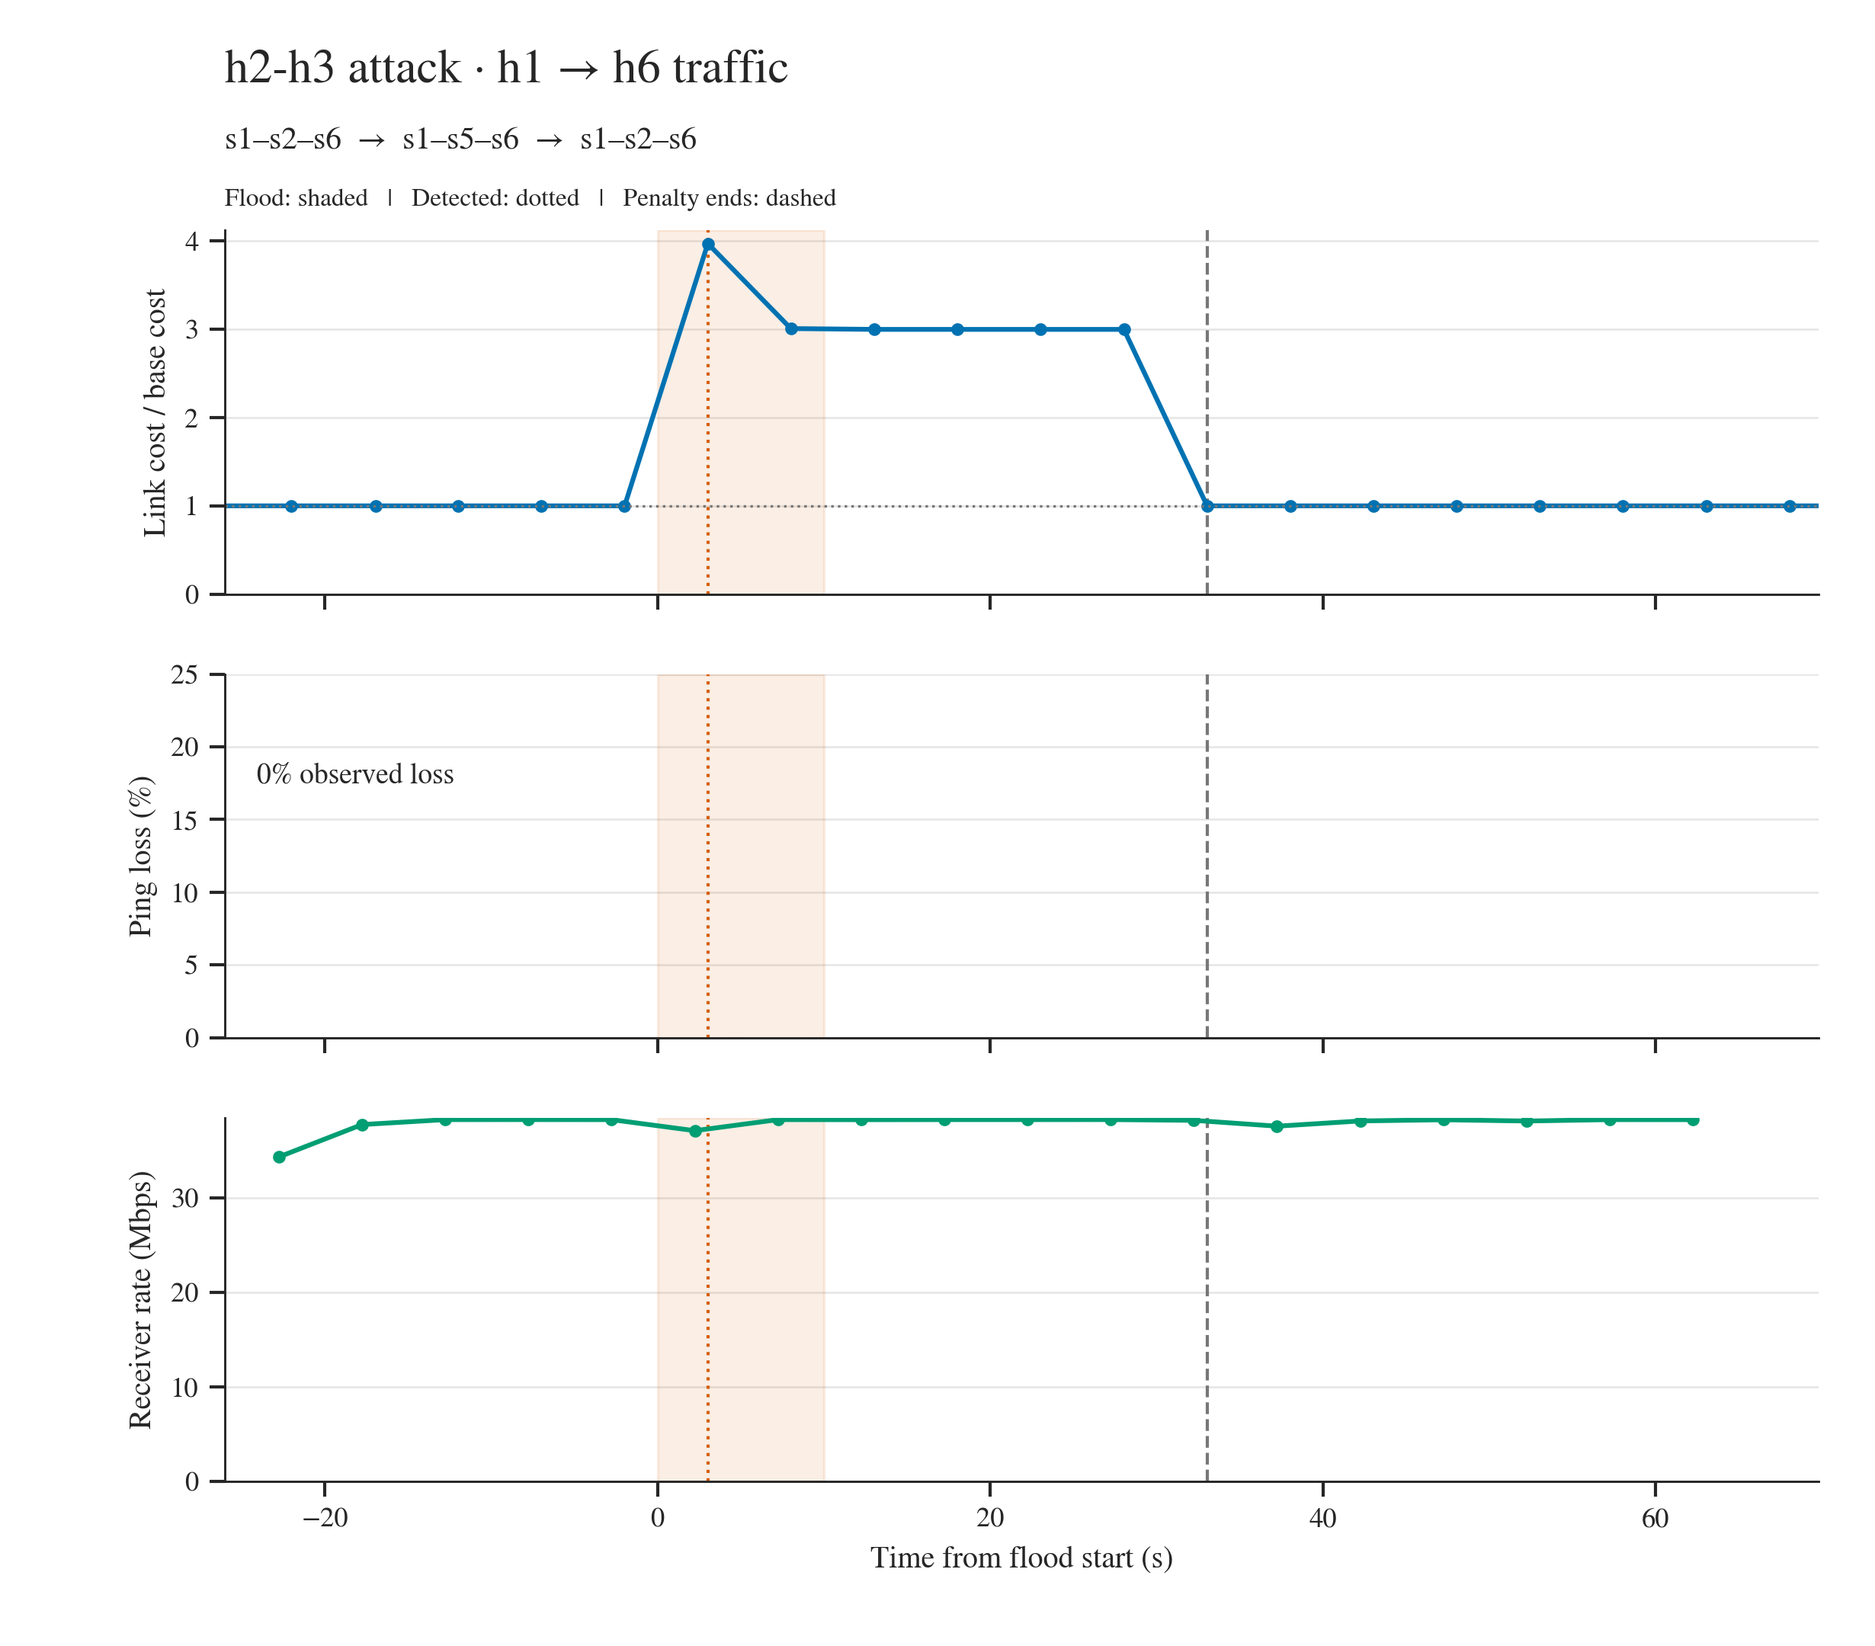
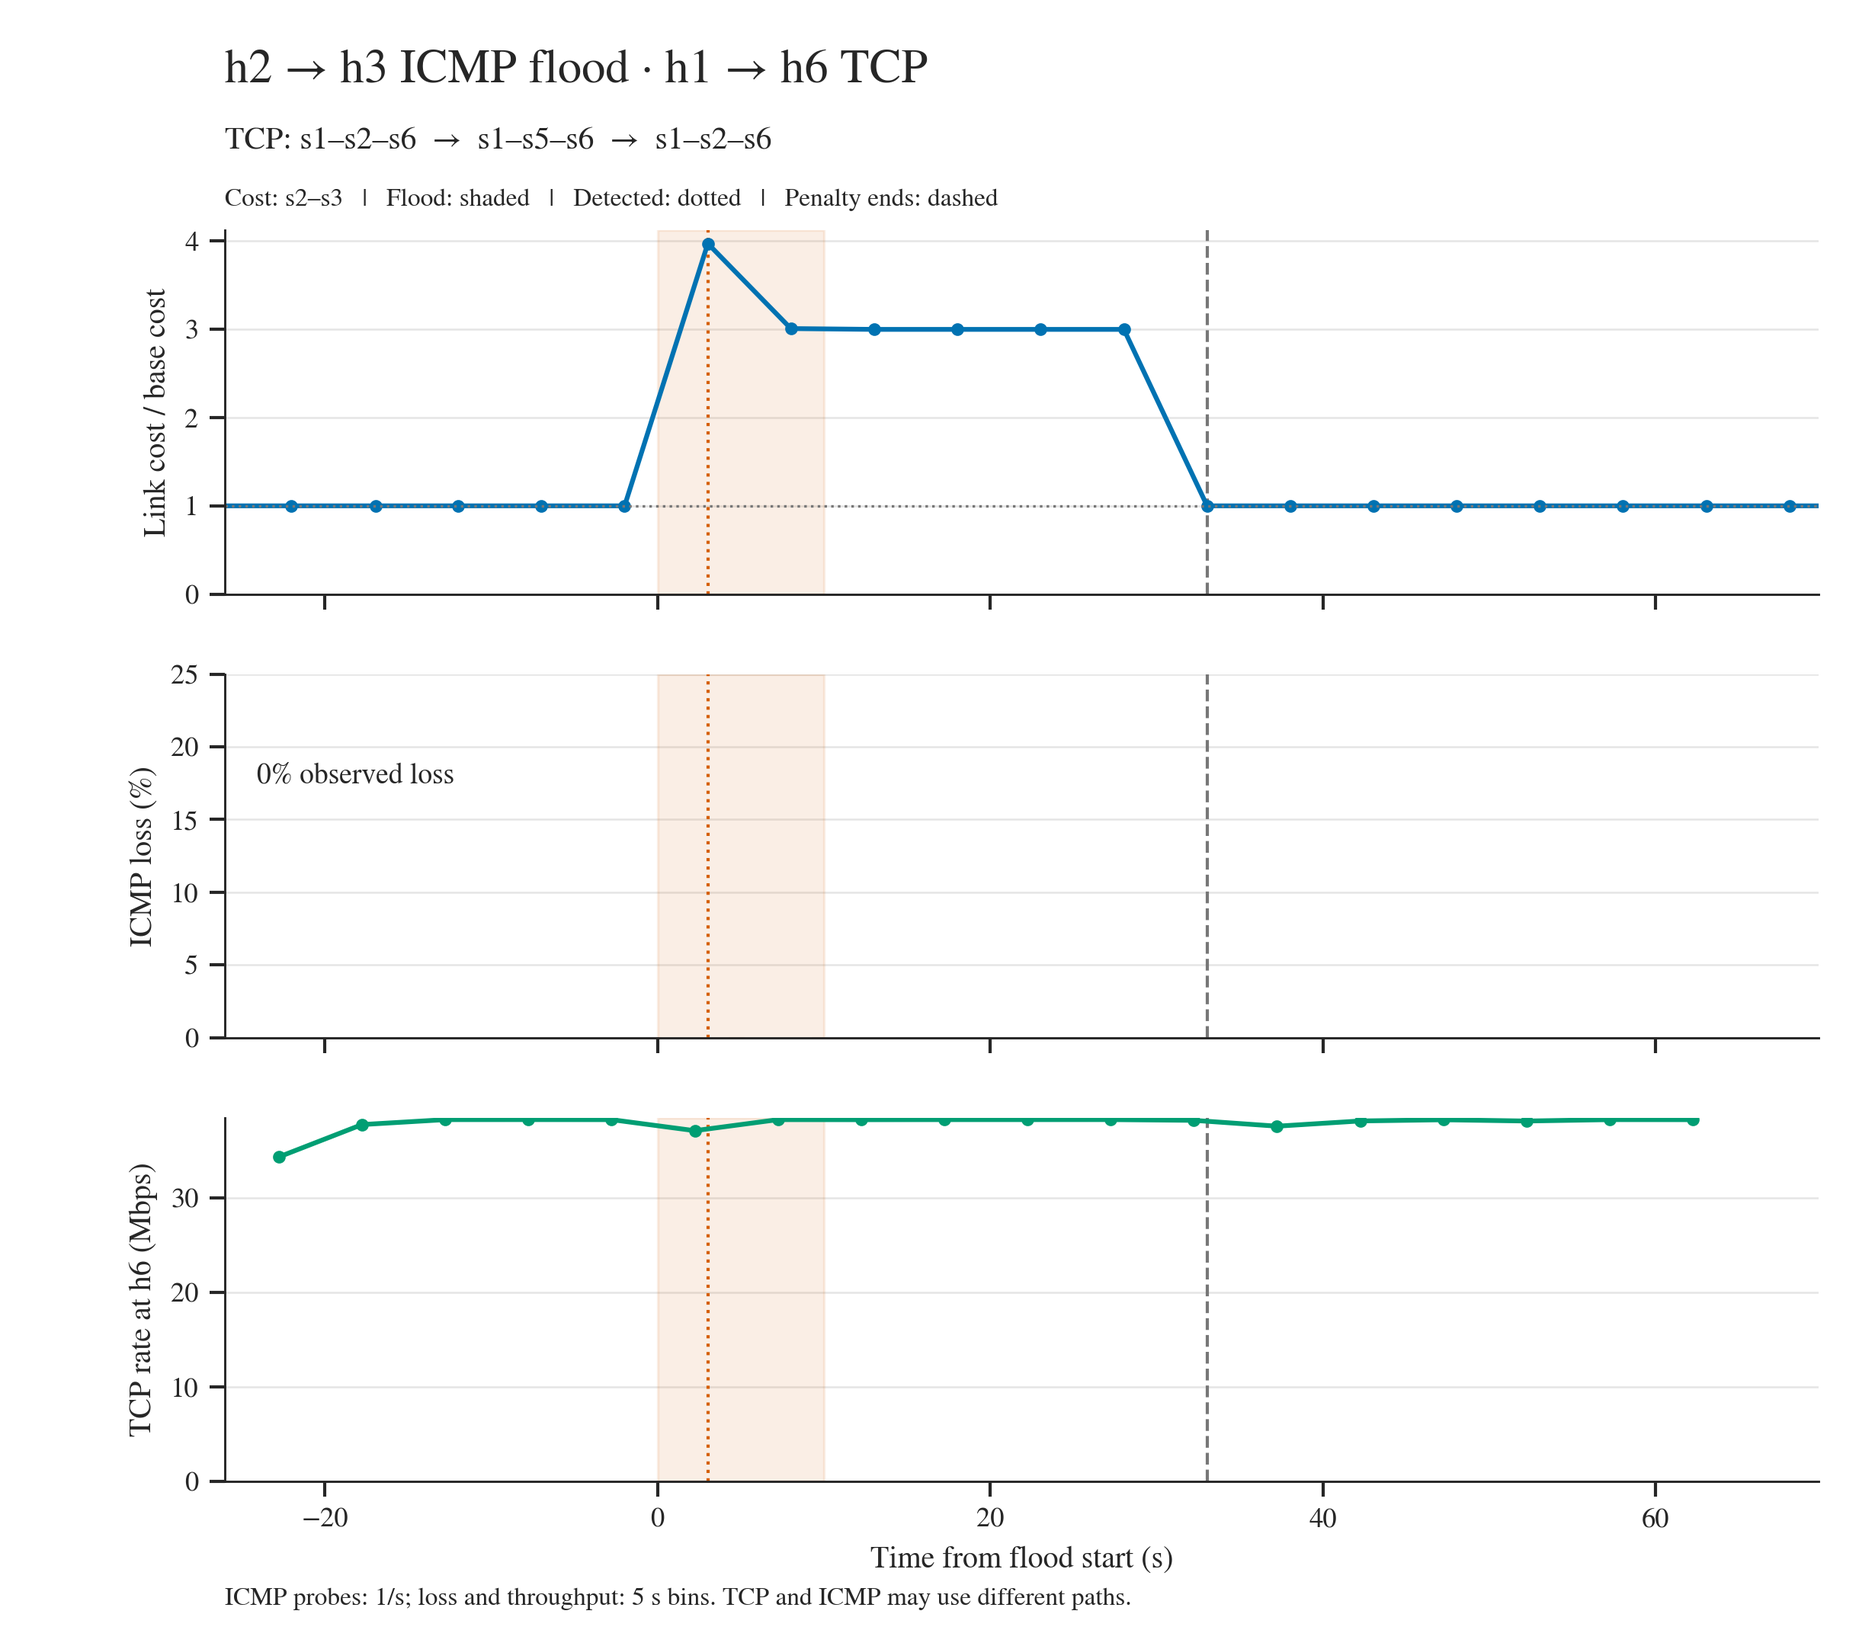
Align topology checks and document measured route costs

diff --git a/tools/plot_qn4.py b/tools/plot_qn4.py
@@ -83,12 +83,27 @@ def summarize(folder):
     report['initial_base_path_cost'] = sum(base[tuple(sorted((u,v)))] for u,v in zip(report['initial_path'],report['initial_path'][1:]))
     # Current costs can differ from the costs at which an existing flow was installed.
     report['route_cost_samples'] = []
+    comparison = None
     for observation in paths:
         latest = {(row['src'], row['dst']): row['dynamic_cost'] for row in samples if row['time'] <= observation['time']}
         edges = [tuple(sorted((u,v))) for u,v in zip(observation['path'],observation['path'][1:])]
         if edges and all(edge in latest for edge in edges):
             report['route_cost_samples'].append({'time': observation['time'], 'path': observation['path'],
                                                   'cost': sum(latest[edge] for edge in edges)})
+            if comparison is None and observation['time'] >= start and observation['path'] != report['path_before']:
+                sampled = max(row['time'] for row in samples if row['time'] <= observation['time'])
+                old_edges = [tuple(sorted((u,v))) for u,v in zip(report['path_before'],report['path_before'][1:])]
+                comparison = {'case': report['case'], 'observed_s': observation['time']-start,
+                              'sample_age_s': observation['time']-sampled,
+                              'old_path': report['path_before'], 'old_cost': sum(latest[edge] for edge in old_edges),
+                              'new_path': observation['path'], 'new_cost': sum(latest[edge] for edge in edges)}
+    report['route_comparison'] = comparison
+    if comparison is not None:
+        with (folder / 'route_costs.csv').open('w', newline='') as output:
+            writer = csv.DictWriter(output, fieldnames=list(comparison), lineterminator='\n')
+            writer.writeheader()
+            writer.writerow({key: '-'.join('s%d'%i for i in value) if key.endswith('_path') else value
+                             for key, value in comparison.items()})
     recovered = any(path == report['path_before'] for path in report['phases']['after']['paths'])
     report['checks'] = {
         'all_hosts_reachable': report['pingall_loss_percent'] == 0,
@@ -106,6 +121,8 @@ def summarize(folder):
         'tcp_finished': report['client_exit_code'] == 0}
     if edge in [tuple(sorted(pair)) for pair in zip(report['path_before'],report['path_before'][1:])]:
         report['checks']['affected_route_changed'] = report['rerouted']
+    if report['rerouted']:
+        report['checks']['lower_cost_in_latest_sample'] = comparison is not None and comparison['new_cost'] < comparison['old_cost']
     report['passed'] = all(report['checks'].values())
     (folder / 'result.json').write_text(json.dumps(report, indent=2) + '\n')
     return report, link, metrics
@@ -121,13 +138,16 @@ def plot(folder, report, link, metrics):
     end = report['penalty_end']-start
     fig, axes = plt.subplots(3, 1, figsize=(8.2, 7.2), sharex=True)
     fig.subplots_adjust(left=.12, right=.97, top=.86, bottom=.1, hspace=.22)
-    fig.suptitle('%s attack · h1 → h6 traffic' % report['case'], x=.12, y=.97, ha='left', fontsize=15)
+    source, destination = report['case'].split('-')
+    fig.suptitle('%s → %s ICMP flood · h1 → h6 TCP' % (source,destination), x=.12, y=.97, ha='left', fontsize=15)
     before = '–'.join('s%d'%i for i in report['path_before'])
     alternatives = [path for path in report['phases']['during']['paths'] if path != report['path_before']]
     during = ' / '.join('–'.join('s%d'%i for i in path) for path in alternatives) or before
     after = ' / '.join('–'.join('s%d'%i for i in path) for path in report['phases']['after']['paths'])
-    fig.text(.12, .91, '%s  →  %s  →  %s' % (before,during,after), fontsize=10)
-    fig.text(.12, .875, 'Flood: shaded   |   Detected: dotted   |   Penalty ends: dashed', fontsize=8)
+    fig.text(.12, .91, 'TCP: %s  →  %s  →  %s' % (before,during,after), fontsize=10)
+    fig.text(.12, .875, 'Cost: s%s–s%s   |   Flood: shaded   |   Detected: dotted   |   Penalty ends: dashed'
+             % (source[1:],destination[1:]), fontsize=8)
+    fig.text(.12, .025, 'ICMP probes: 1/s; loss and throughput: 5 s bins. TCP and ICMP may use different paths.', fontsize=8)
     for ax in axes:
         ax.axvspan(0, report['flood_seconds'], color=COLORS['block'], alpha=.1)
         ax.axvline(report['detection_seconds'], color=COLORS['block'], linestyle=':', linewidth=1)
@@ -141,13 +161,13 @@ def plot(folder, report, link, metrics):
     points = [row for row in metrics if row['loss_pct'] is not None]
     axes[1].bar([row['time_s'] for row in points], [row['loss_pct'] for row in points],
                 width=4.1, color=COLORS['block'])
-    axes[1].set_ylabel('Ping loss (%)')
+    axes[1].set_ylabel('ICMP loss (%)')
     axes[1].set_ylim(0, max(25, max(row['loss_pct'] for row in points)*1.2))
     if all(row['loss_pct'] == 0 for row in points):
         axes[1].text(.02, .7, '0% observed loss', transform=axes[1].transAxes, fontsize=9)
     axes[2].plot([row['time_s'] for row in metrics], [row['receiver_mbps'] for row in metrics],
                  '-o', color=COLORS['ema'], markersize=3)
-    axes[2].set_ylabel('Receiver rate (Mbps)')
+    axes[2].set_ylabel('TCP rate at h6 (Mbps)')
     axes[2].set_ylim(bottom=0)
     lowest = min(metrics, key=lambda row: row['receiver_mbps'])
     if lowest['receiver_mbps'] < .01:

diff --git a/tests/check_topology.py b/tests/check_topology.py
@@ -23,6 +23,10 @@ assert len(data['hosts']) == len(data['switches']) == 6 and len(expected) == 17
 
 # Load the actual pure functions without importing Ryu into system Python.
 code = ast.parse((ROOT / 'controller/path_controller.py').read_text())
+base_costs = next(ast.literal_eval(node.value) for node in code.body
+                  if isinstance(node, ast.Assign)
+                  and any(isinstance(target, ast.Name) and target.id == 'BASE_COSTS'
+                          for target in node.targets))
 functions = [n for n in code.body if isinstance(n, ast.FunctionDef)
              and n.name in ('shortest_path', 'spanning_tree')]
 import heapq
@@ -32,11 +36,11 @@ graph = {i: {} for i in range(1, 7)}
 for (u, v), opts in expected.items():
     if u.startswith('s') and v.startswith('s'):
         a, b = int(u[1:]), int(v[1:])
-        graph[a][b] = graph[b][a] = float(opts['delay'][:-2])
-assert scope['shortest_path'](graph, 1, 6) == ([1, 2, 6], 19)
-assert scope['shortest_path'](graph, 6, 1) == ([6, 2, 1], 19)
+        graph[a][b] = graph[b][a] = base_costs.get(tuple(sorted((a, b))), 10.0)
+assert scope['shortest_path'](graph, 1, 6) == ([1, 2, 6], 15)
+assert scope['shortest_path'](graph, 6, 1) == ([6, 2, 1], 15)
 assert scope['shortest_path']({1: {}, 2: {}}, 1, 2) == ([], float('inf'))
 tree = scope['spanning_tree'](graph)
 assert len(tree) == 5
-assert sum(graph[u][v] for u, v in tree) == 37
-print('PASS: original topology preserved; Dijkstra path cost 19; MST cost 37.')
+assert sum(graph[u][v] for u, v in tree) == 43
+print('PASS: original topology preserved; Dijkstra path cost 15; MST cost 43.')

diff --git a/README.md b/README.md
@@ -15,8 +15,8 @@ cd CEG5101_CA2
 bash scripts/setup.sh
 ```
 
-The script installs Mininet, Open vSwitch, Ryu, hping3 and the plotting
-packages. Ryu uses the project's `.venv`.
+The script installs Mininet, Open vSwitch, Ryu, hping3, iperf, tcpdump and
+the plotting packages. Ryu uses the project's `.venv`.
 
 ## Start the network
 
@@ -82,6 +82,10 @@ h2 should receive no replies after blocking; h1 should still receive replies.
 The flow table should contain a priority-5000 rule for `nw_src=10.0.0.2`
 with `actions=drop`.
 
+For the automated version, run `bash scripts/run_qn2.sh`.
+[Qn2 measurements and plots](docs/qn2.md) include the saved runs and
+the command for redrawing them.
+
 ## Qn3: dynamic link costs
 
 Qn3 runs in the same controller. Each inter-switch link uses:
@@ -91,11 +95,9 @@ cost = base_cost + 30 × utilisation + 20 × anomaly
 ```
 
 Base costs follow the supplied `resilient_controller.py`; unspecified links
-have cost 10. The physical TCLink delays are unchanged. This keeps all three
-Qn4 attack pairs on their requested links when the baseline flows start.
-Utilisation is the larger of the two
-directional TX rates divided by 40 Mbps, capped at 1. The anomaly penalty
-lasts 30 seconds; the source IP stays blocked.
+have cost 10. Routing costs are separate from the physical TCLink delays.
+Utilisation is the larger directional TX rate divided by 40 Mbps, capped
+at 1. The anomaly penalty lasts 30 seconds; the source IP stays blocked.
 
 On a fresh network, run this at `mininet>` to test the load term:
 
@@ -108,24 +110,11 @@ Open the newest `results/data/qn3-*.jsonl` file. Each row records a link's
 `utilisation`, `anomaly`, `dynamic_cost` and `normalized_cost`.
 Use the Qn2 ping/flood test to check the anomaly term.
 
-Load updates affect new flows. Existing flows keep their paths until an
-anomaly is detected, a penalty expires, or the topology changes. This avoids
-switching back and forth every statistics interval. Only flows with new
-packets contribute destinations to the anomaly-path check; idle rules left
-by `pingall` are excluded.
+Load updates affect new flows. Existing paths are recalculated when an
+anomaly is detected, a penalty expires, or the topology changes. Idle rules
+left by `pingall` are excluded from anomaly-path marking.
 
-The earlier delay-based runs below verified source blocking on all six switches, no further
-forwarding from the blocked source, and penalty recovery. The continuous
-h1→h6 ping received 70/70 replies in four runs and 69/70 in one.
-Three TCP tests (120, 60 and 60 seconds) had no periodic route resets.
-
-![Qn2 and Qn3 results](docs/images/qn3-results.png)
-
-Saved measurements: [anomaly runs](examples/qn3/anomaly_runs.csv) and
-[TCP runs](examples/qn3/load_runs.csv). The TCP repeats also included a
-5-second h4→h3 flow, which selected s4–s5–s3 under load.
-Those h5→h6 tests used s5–s3–s6. Qn4 below uses the reference base costs
-and verifies traffic on s5–s6.
+[Earlier Qn3 tests](docs/qn3.md) used delay-based costs and are kept separately.
 
 ## Qn4: rerouting and performance
 
@@ -135,62 +124,50 @@ Run all three cases:
 bash scripts/run_qn4.sh
 ```
 
-Each case starts a fresh test network. It establishes the source's ICMP
-baseline, starts a 90-second h1→h6 TCP flow, and sends a 10-second flood
-after 25 seconds. The cases are h2→h3, h2→h6 and h5→h6.
-The source path is checked against the requested link before the flood.
-The three cases take about six minutes in total.
+If you used an earlier setup, install the measurement tools once:
+`sudo apt install iperf tcpdump`.
 
-Results go to `results/qn4/<run>/<case>/`. `qn4.png` shows normalized link
-cost, ping loss and receiver throughput over time. TCP paths come from
-OpenFlow rules; ping loss comes from captured h1→h6 ICMP probes. These
-probes can use a different path from TCP. Throughput and loss use 5-second
-bins, with one ping per second.
+Each case starts a fresh network, builds the source's ping baseline, and
+runs h1→h6 TCP traffic for 90 seconds. A 10-second flood starts after
+25 seconds. The source path is checked against s2–s3, s2–s6 or s5–s6.
+The three cases take about six minutes.
 
-For each case, `result.json` records the paths, drop-rule checks and
-before/during/after measurements; `metrics.csv` contains the plotted rates
-and loss. The scripts retain the original logs, JSONL samples and ICMP capture.
-The `during` phase runs from flood start through penalty expiry.
+Results go to `results/qn4/<run>/<case>/`:
 
-The saved tests verified all three target links, source blocking and route
-recovery. Loss and temporary throughput drops are retained, including a
-5-second interval at 0.0023 Mbps in the h2→h6 run. The same TCP connection
-subsequently recovered and finished.
-Off-path attacks can also move h1's TCP flow: fresh routing decisions use
-the current load costs on its original path.
+- `qn4.png`: normalized cost of the attacked link, ICMP probe loss and TCP receiver throughput.
+- `result.json`: paths, blocking checks and before/during/after measurements.
+- `metrics.csv`: throughput and loss in 5-second bins.
+- `route_costs.csv`: old and new path costs using the same logged cost snapshot.
+
+TCP paths come from OpenFlow rules. Loss is measured with one h1→h6 ping
+per second; these probes can use a different path from TCP. The `during`
+phase covers flood start through penalty expiry. Original logs, JSONL
+samples and ICMP captures are retained.
+
+At the first observed reroute, the latest logged costs gave:
+
+| Attack | Old path cost | New path cost |
+| --- | ---: | ---: |
+| h2→h3 | 73.01 | 20.00 |
+| h2→h6 | 89.86 | 20.00 |
+| h5→h6 | 73.21 | 30.00 |
+
+These are dynamic costs from one snapshot, rather than the initial base
+path cost of 15. [Cost comparisons](examples/qn4/route_costs.csv) include
+the observation time and sample age.
+
+All three saved cases blocked the source and restored h1's original route.
+The h2→h6 case lost one of 100 ping probes and had a 5-second interval at
+0.0023 Mbps; the same TCP connection recovered and finished. Off-path
+attacks can also move h1 because routing uses the current load costs.
 
 ![h2 to h6 rerouting](docs/images/qn4-h2-h6.png)
 
 Other cases: [h2→h3](docs/images/qn4-h2-h3.png),
 [h5→h6](docs/images/qn4-h5-h6.png). [Saved measurements](examples/qn4/phases.csv).
 
-## Optional: automated test and plots
-
-```bash
-bash scripts/run_qn2.sh
-```
-
-This checks blocking and legitimate connectivity while the flood is active.
-It starts and stops its own test network. Data goes to `results/qn2/`, and
-figures to `figures/`.
-
-To redraw the saved automated run:
-
-```bash
-bash scripts/run_qn2.sh plot
-```
-
-The [saved Qn2 results](docs/qn2.md#saved-results) include measurements and
-figures from a separate automated run. Edit `tools/plot_style.py` to adjust colors, font and figure size.
-Plots are saved as PNG.
-Text uses Times New Roman when available, with STIXGeneral as the fallback;
-math uses STIX. Font settings are in `tools/plot_style.py`.
-
-Three fresh runs also passed the blocking and connectivity checks:
-
-![Three Qn2 repeat tests](docs/images/qn2-repeats.png)
-
-[Repeat measurements](examples/qn2/repeats/summary.csv)
+Cost can rise again after recovery when TCP returns to the original link.
+The loss bars show individual 5-second windows, not whole-run loss.
 
 ## Stop or repeat
 
@@ -214,3 +191,6 @@ missing.
 
 The topology and reference approach come from the CEG5101 CA2 materials.
 MiniEdit's original credits and license are in `vendor/`.
+
+Plots are PNG. Edit `tools/plot_style.py` for colors and fonts. Text uses
+Times New Roman when available, falling back to STIXGeneral; math uses STIX.

diff --git a/docs/qn3.md b/docs/qn3.md
@@ -1,0 +1,21 @@
+# Earlier Qn3 tests
+
+These runs used the earlier controller, where base costs came from topology
+delays. The current controller uses the costs from the supplied
+`resilient_controller.py`, with cost 10 for unspecified links.
+
+Five anomaly runs verified source blocking on all six switches, no further
+forwarding from the blocked source, and penalty recovery. The continuous
+h1→h6 ping received 70/70 replies in four runs and 69/70 in one.
+
+Three TCP tests (120, 60 and 60 seconds) had no periodic route resets.
+Each included a 5-second h4→h3 TCP flow, which selected s4–s5–s3 under load.
+
+![Earlier Qn2 and Qn3 results](images/qn3-results.png)
+
+Measurements: [anomaly runs](../examples/qn3/anomaly_runs.csv) and
+[TCP runs](../examples/qn3/load_runs.csv).
+
+In these earlier tests, h5→h6 used s5–s3–s6. They do not verify the
+assignment's s5–s6 case. The [current Qn4 tests](../README.md#qn4-rerouting-and-performance)
+use the reference costs and verify that direct link.
